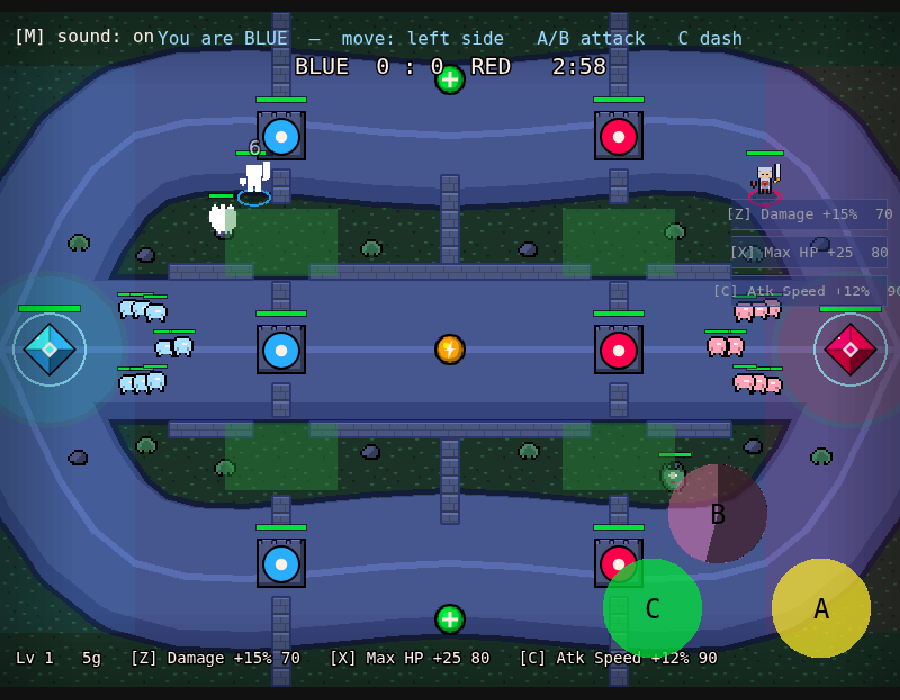
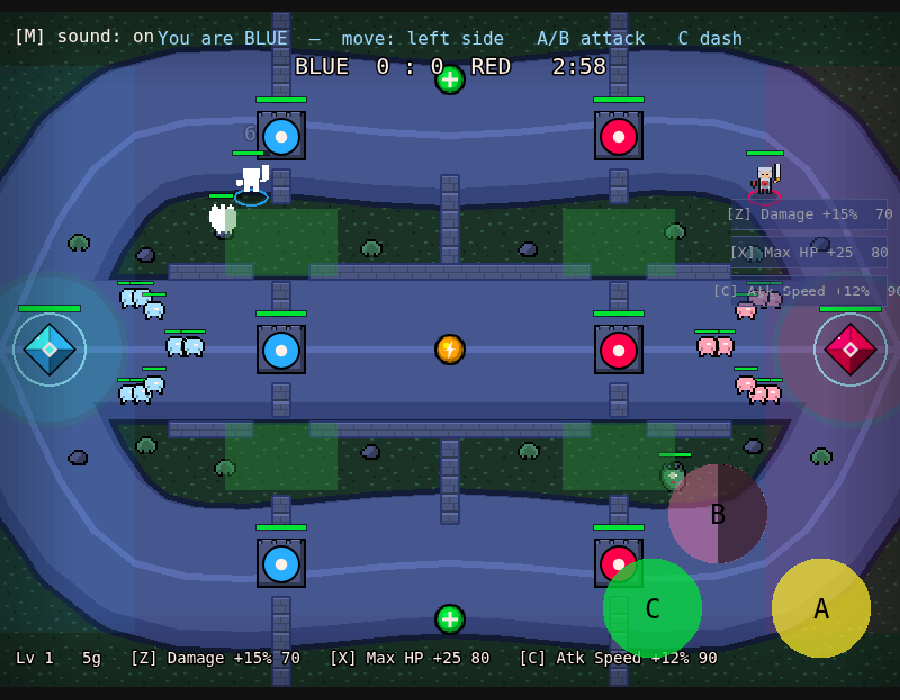
Smarter AI bots: intent over randomness
The bot brain no longer just chases and fires abilities on a dice roll.
Now each bot:
- collapses on the weakest visible enemy hero nearby (focus a kill),
- fires its ability when an enemy hero is actually in range (not at a
  3% random chance),
- refuses to dive an enemy tower without a friendly minion to soak it —
  it backs off to the tower's edge and waits for the wave, then pushes,
- retreats toward home when low,
- dashes with purpose (escape when hurt, close a big gap to engage).

New perception helpers on GameServer (lowestEnemyHeroNear,
enemyTowerCovering, hasMinionSupport). m39 verifies each behaviour;
m29 integration still resolves a full bots match cleanly.

https://claude.ai/code/session_01MAXKRUpJFcKFAvV2b8xTXo

diff --git a/src/net/GameServer.js b/src/net/GameServer.js
@@ -224,18 +224,30 @@ export default class GameServer {
   stepBots() {
     for (const p of this.players.values()) {
       if (!p.bot || !p.alive) continue;
-      const target = this.nearestTarget(p);
+      // Prefer collapsing on a weak nearby enemy hero (a kill); otherwise head
+      // for whatever the auto-aim would shoot (minion/tower/exposed base).
+      const focus = this.lowestEnemyHeroNear(p, 280);
+      const target = focus || this.nearestTarget(p);
       if (!target) {
         p.input.dx = 0;
         p.input.dy = 0;
         continue;
       }
       const low = p.hp < CLASSES[p.cls].maxHp * 0.3;
+      const home = this.bases.get(p.team);
+      const dangerTower = this.enemyTowerCovering(p, 26);
+      const supported = this.hasMinionSupport(p, 170);
+
       let mx, my; // desired move direction
       if (low) {
-        const home = this.bases.get(p.team); // run for our base
+        // Hurt → retreat toward home (still auto-firing back as we kite).
         mx = home.x - p.x;
         my = home.y - p.y;
+      } else if (dangerTower && !supported) {
+        // Don't dive an enemy tower without minions to soak it — back off to its
+        // edge and wait for the wave.
+        mx = p.x - dangerTower.x;
+        my = p.y - dangerTower.y;
       } else {
         const dx = target.x - p.x;
         const dy = target.y - p.y;
@@ -252,9 +264,19 @@ export default class GameServer {
         p.input.dx = 0;
         p.input.dy = 0;
       }
+
       this.tryAttack(p, "basic");
-      if (!low && Math.random() < 0.03) this.tryAbility(p);
-      if (Math.random() < 0.04) this.tryDash(p);
+      // Use the ability with intent: when a (visible) enemy hero is in striking
+      // range, not at random. tryAbility() still gates it on cooldown.
+      const enemyHero = focus || this.nearestEnemyPlayer(p);
+      if (!low && enemyHero && (enemyHero.x - p.x) ** 2 + (enemyHero.y - p.y) ** 2 < 300 * 300) {
+        this.tryAbility(p);
+      }
+      // Dash with purpose: escape when hurt, or close a big gap to engage. (face
+      // already points the way we're moving; tryDash gates on cooldown.)
+      const gap = Math.hypot(target.x - p.x, target.y - p.y);
+      if (low || (!dangerTower && gap > BOT_STANDOFF * 1.6)) this.tryDash(p);
+
       this.tryBuy(p); // spend gold on upgrades as soon as it can afford one
     }
   }
@@ -613,6 +635,42 @@ export default class GameServer {
       }
     }
     return best;
+  }
+
+  // --- Bot perception helpers ------------------------------------------------
+  // The weakest visible enemy hero within `maxDist` (so bots collapse on a kill).
+  lowestEnemyHeroNear(player, maxDist) {
+    let best = null;
+    let bestHp = Infinity;
+    for (const o of this.players.values()) {
+      if (o.team === player.team || !o.alive || this.isHidden(o)) continue;
+      if ((o.x - player.x) ** 2 + (o.y - player.y) ** 2 > maxDist * maxDist) continue;
+      if (o.hp < bestHp) {
+        bestHp = o.hp;
+        best = o;
+      }
+    }
+    return best;
+  }
+
+  // An alive enemy tower whose guns cover the player's spot (so it knows not to
+  // dive). `pad` widens the danger radius a little.
+  enemyTowerCovering(player, pad = 0) {
+    const r = TOWER.range + pad;
+    for (const tw of this.towers) {
+      if (!tw.alive || tw.team === player.team) continue;
+      if ((tw.x - player.x) ** 2 + (tw.y - player.y) ** 2 <= r * r) return tw;
+    }
+    return null;
+  }
+
+  // Is a friendly minion close enough to soak a tower while the bot pushes?
+  hasMinionSupport(player, r) {
+    for (const m of this.minions) {
+      if (!m.alive || m.team !== player.team) continue;
+      if ((m.x - player.x) ** 2 + (m.y - player.y) ** 2 <= r * r) return true;
+    }
+    return false;
   }
 
   // Closest enemy thing to aim at: any living enemy player, or the enemy base.

diff --git a/HANDOVER.md b/HANDOVER.md
@@ -4,16 +4,16 @@
 > human) can pick this project up cold and keep building safely.
 > **Update this file after every major change** (see *Update protocol* at the end).
 >
-> **Last updated:** heroes restyled as detailed "Tiny RPG" front-facing
->   characters — knight, rogue, heavy-shield tank, green archer, wizard,
->   barbarian — each a single 24x24 pose with a weapon, in chibi proportions
->   (big head centred on a narrow body), team-coloured garment, mirrored when
->   walking left, with the existing bob + ground shadow. Data in
->   `src/rpgsprites.js`; rendered at `HERO_SCALE`. This REPLACED the Game Boy
->   top-down 4-direction system (gbsprites.js removed). Before that: the
->   map-layout pass (tower chokepoints + jungle gank gaps in `config.js`
->   `WALLS`/`BUSH_ZONES`), per-hero abilities, the four-part art overhaul.
-> **Status:** all tests green (56 test groups), live two-browser test green, build OK.
+> **Last updated:** smarter AI bots (`GameServer.stepBots` + perception helpers
+>   `lowestEnemyHeroNear`/`enemyTowerCovering`/`hasMinionSupport`): they collapse
+>   on weak nearby heroes, fire abilities with intent (enemy hero in range, not
+>   random), refuse to dive an enemy tower without minion support, retreat home
+>   when low, and dash to engage/escape. Tested in m39. Before that: flowing
+>   curved MOBA lane visuals + nexus plazas (`ArenaScene.drawGrid`); detailed
+>   "Tiny RPG" front-facing heroes (`src/rpgsprites.js`, `HERO_SCALE`) on
+>   team-coloured rings; the map-layout pass (chokepoints/gank gaps); per-hero
+>   abilities; the four-part art overhaul.
+> **Status:** all tests green (57 test groups), live two-browser test green, build OK.
 >
 > ⚠ **WORK FROM THE BRANCH, NOT `main`.** All work lives on
 > **`claude/pixel-moba-game-WobPa`** (PR #1 → `main`). `main` is the empty root
